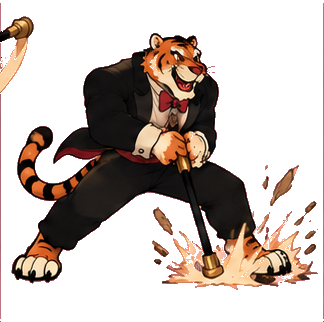
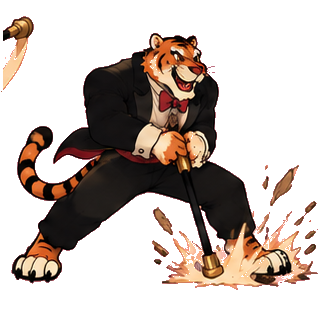
fix: clean balthazar_attack grid line remnants, add frame info to viewer
- Remove persistent grid-line strips from all 5 balthazar_attack frames
  (dark/pinkish vertical strips at cell boundaries that survived bg removal)
- Update sprite-crop viewer template: show current frame filename + index
  above the animation canvas while playing
- Regenerate both petal-panic and abyss-qwen viewers

Changed region(s): [[0.9877, 0.0, 1.0, 1.0], [0.0, 0.0932, 0.0309, 0.3106]]

diff --git a/.squid-os/sprite-gen/abyss-qwen.viewer.html b/.squid-os/sprite-gen/abyss-qwen.viewer.html
@@ -10,16 +10,17 @@
   #side h1{font-size:18px;color:#3ef0ff;letter-spacing:2px;margin:0 0 4px;text-transform:uppercase;}
   #side .sub{font-size:11px;color:#5a6a90;margin-bottom:14px;}
   .label{color:#ffe23e;font-size:13px;margin:12px 0 4px;letter-spacing:1px;}
-  .ent{font-size:14px;padding:6px 10px;border-radius:6px;cursor:pointer;color:#8fa0d0;user-select:none;}
+  .ent{font-size:14px;padding:6px 10px;border-radius:6px;cursor:pointer;color:#8fa0d0;user-select:none;display:flex;justify-content:space-between;align-items:center;}
   .ent:hover{background:rgba(62,240,255,.08);color:#cfe4ff;}
   .ent.on{background:rgba(255,226,62,.12);color:#fff;}
-  .ent .cnt{float:right;color:#5a6a90;font-size:11px;margin-left:8px;}
+  .ent .cnt{color:#5a6a90;font-size:11px;margin-left:8px;white-space:nowrap;}
   .ent.on .cnt{color:#ffe23e;}
   #main{flex:1;display:flex;flex-direction:column;align-items:center;justify-content:center;gap:20px;padding:20px;}
   #stage{position:relative;display:flex;align-items:center;justify-content:center;}
   canvas{image-rendering:pixelated;image-rendering:crisp-edges;border:2px solid #1b2540;border-radius:8px;max-width:60vmin;max-height:55vmin;}
   #name{font-size:26px;color:#3ef0ff;font-weight:bold;letter-spacing:2px;text-shadow:0 0 14px #3ef0ff;text-transform:uppercase;}
   #meta{font-size:15px;color:#8fa0d0;margin-top:-12px;letter-spacing:1px;}
+  #frameinfo{font-size:12px;color:#5a6a90;margin-top:4px;letter-spacing:.5px;font-family:'Courier New',monospace;}
   #controls{display:flex;align-items:center;gap:16px;font-size:18px;}
   button{font-family:inherit;font-size:22px;width:48px;height:48px;border-radius:8px;border:2px solid #1b2540;
           background:#0d1120;color:#cfe4ff;cursor:pointer;transition:all .1s;}
@@ -40,6 +41,7 @@
   <div id="main">
     <div id="name">&nbsp;</div>
     <div id="meta">&nbsp;</div>
+    <div id="frameinfo">&nbsp;</div>
     <div id="stage"><canvas id="cv" width="256" height="256"></canvas></div>
     <div id="controls">
       <button id="slower" title="slower">&#8722;</button>
@@ -61,6 +63,7 @@ const ctx = cv.getContext('2d');
 ctx.imageSmoothingEnabled = false;
 const nameEl = document.getElementById('name');
 const metaEl = document.getElementById('meta');
+const frameInfoEl = document.getElementById('frameinfo');
 const fpsEl = document.getElementById('fps');
 const bgInput = document.getElementById('bg');
 const bgVal = document.getElementById('bgval');
@@ -97,7 +100,7 @@ async function selectEntity(li, ei){
   document.querySelectorAll('.ent').forEach(e=>e.classList.remove('on'));
   en._el.classList.add('on');
   const imgs = await loadFrames(en.frames);
-  current = { name: en.name, frames: imgs.filter(Boolean) };
+  current = { name: en.name, frames: imgs.filter(Boolean), framePaths: en.frames };
   frameIdx = 0; acc = 0; playing = true;
   nameEl.textContent = current.name;
   metaEl.textContent = current.frames.length + ' frames';
@@ -113,8 +116,15 @@ function draw(){
   ctx.fillStyle = bg;
   ctx.fillRect(0, 0, cv.width, cv.height);
   if (current && current.frames.length){
-    const im = current.frames[frameIdx % current.frames.length];
+    const idx = frameIdx % current.frames.length;
+    const im = current.frames[idx];
     if (im) ctx.drawImage(im, 0, 0, cv.width, cv.height);
+    // Show current frame filename
+    if (current.framePaths && current.framePaths.length){
+      const fn = current.framePaths[idx] || '';
+      const basename = fn.split('/').pop();
+      frameInfoEl.textContent = (idx+1) + '/' + current.frames.length + '  —  ' + basename;
+    }
   }
 }
 

diff --git a/.squid-os/sprite-gen/petal-panic.viewer.html b/.squid-os/sprite-gen/petal-panic.viewer.html
@@ -10,16 +10,17 @@
   #side h1{font-size:18px;color:#3ef0ff;letter-spacing:2px;margin:0 0 4px;text-transform:uppercase;}
   #side .sub{font-size:11px;color:#5a6a90;margin-bottom:14px;}
   .label{color:#ffe23e;font-size:13px;margin:12px 0 4px;letter-spacing:1px;}
-  .ent{font-size:14px;padding:6px 10px;border-radius:6px;cursor:pointer;color:#8fa0d0;user-select:none;}
+  .ent{font-size:14px;padding:6px 10px;border-radius:6px;cursor:pointer;color:#8fa0d0;user-select:none;display:flex;justify-content:space-between;align-items:center;}
   .ent:hover{background:rgba(62,240,255,.08);color:#cfe4ff;}
   .ent.on{background:rgba(255,226,62,.12);color:#fff;}
-  .ent .cnt{float:right;color:#5a6a90;font-size:11px;margin-left:8px;}
+  .ent .cnt{color:#5a6a90;font-size:11px;margin-left:8px;white-space:nowrap;}
   .ent.on .cnt{color:#ffe23e;}
   #main{flex:1;display:flex;flex-direction:column;align-items:center;justify-content:center;gap:20px;padding:20px;}
   #stage{position:relative;display:flex;align-items:center;justify-content:center;}
   canvas{image-rendering:pixelated;image-rendering:crisp-edges;border:2px solid #1b2540;border-radius:8px;max-width:60vmin;max-height:55vmin;}
   #name{font-size:26px;color:#3ef0ff;font-weight:bold;letter-spacing:2px;text-shadow:0 0 14px #3ef0ff;text-transform:uppercase;}
   #meta{font-size:15px;color:#8fa0d0;margin-top:-12px;letter-spacing:1px;}
+  #frameinfo{font-size:12px;color:#5a6a90;margin-top:4px;letter-spacing:.5px;font-family:'Courier New',monospace;}
   #controls{display:flex;align-items:center;gap:16px;font-size:18px;}
   button{font-family:inherit;font-size:22px;width:48px;height:48px;border-radius:8px;border:2px solid #1b2540;
           background:#0d1120;color:#cfe4ff;cursor:pointer;transition:all .1s;}
@@ -40,6 +41,7 @@
   <div id="main">
     <div id="name">&nbsp;</div>
     <div id="meta">&nbsp;</div>
+    <div id="frameinfo">&nbsp;</div>
     <div id="stage"><canvas id="cv" width="256" height="256"></canvas></div>
     <div id="controls">
       <button id="slower" title="slower">&#8722;</button>
@@ -61,6 +63,7 @@ const ctx = cv.getContext('2d');
 ctx.imageSmoothingEnabled = false;
 const nameEl = document.getElementById('name');
 const metaEl = document.getElementById('meta');
+const frameInfoEl = document.getElementById('frameinfo');
 const fpsEl = document.getElementById('fps');
 const bgInput = document.getElementById('bg');
 const bgVal = document.getElementById('bgval');
@@ -97,7 +100,7 @@ async function selectEntity(li, ei){
   document.querySelectorAll('.ent').forEach(e=>e.classList.remove('on'));
   en._el.classList.add('on');
   const imgs = await loadFrames(en.frames);
-  current = { name: en.name, frames: imgs.filter(Boolean) };
+  current = { name: en.name, frames: imgs.filter(Boolean), framePaths: en.frames };
   frameIdx = 0; acc = 0; playing = true;
   nameEl.textContent = current.name;
   metaEl.textContent = current.frames.length + ' frames';
@@ -113,8 +116,15 @@ function draw(){
   ctx.fillStyle = bg;
   ctx.fillRect(0, 0, cv.width, cv.height);
   if (current && current.frames.length){
-    const im = current.frames[frameIdx % current.frames.length];
+    const idx = frameIdx % current.frames.length;
+    const im = current.frames[idx];
     if (im) ctx.drawImage(im, 0, 0, cv.width, cv.height);
+    // Show current frame filename
+    if (current.framePaths && current.framePaths.length){
+      const fn = current.framePaths[idx] || '';
+      const basename = fn.split('/').pop();
+      frameInfoEl.textContent = (idx+1) + '/' + current.frames.length + '  —  ' + basename;
+    }
   }
 }
 

diff --git a/.squid-os/skills/sprite-crop/scripts/crop_sprites.py b/.squid-os/skills/sprite-crop/scripts/crop_sprites.py
@@ -506,16 +506,17 @@ VIEWER_TMPL = """<!DOCTYPE html>
   #side h1{font-size:18px;color:#3ef0ff;letter-spacing:2px;margin:0 0 4px;text-transform:uppercase;}
   #side .sub{font-size:11px;color:#5a6a90;margin-bottom:14px;}
   .label{color:#ffe23e;font-size:13px;margin:12px 0 4px;letter-spacing:1px;}
-  .ent{font-size:14px;padding:6px 10px;border-radius:6px;cursor:pointer;color:#8fa0d0;user-select:none;}
+  .ent{font-size:14px;padding:6px 10px;border-radius:6px;cursor:pointer;color:#8fa0d0;user-select:none;display:flex;justify-content:space-between;align-items:center;}
   .ent:hover{background:rgba(62,240,255,.08);color:#cfe4ff;}
   .ent.on{background:rgba(255,226,62,.12);color:#fff;}
-  .ent .cnt{float:right;color:#5a6a90;font-size:11px;margin-left:8px;}
+  .ent .cnt{color:#5a6a90;font-size:11px;margin-left:8px;white-space:nowrap;}
   .ent.on .cnt{color:#ffe23e;}
   #main{flex:1;display:flex;flex-direction:column;align-items:center;justify-content:center;gap:20px;padding:20px;}
   #stage{position:relative;display:flex;align-items:center;justify-content:center;}
   canvas{image-rendering:pixelated;image-rendering:crisp-edges;border:2px solid #1b2540;border-radius:8px;max-width:60vmin;max-height:55vmin;}
   #name{font-size:26px;color:#3ef0ff;font-weight:bold;letter-spacing:2px;text-shadow:0 0 14px #3ef0ff;text-transform:uppercase;}
   #meta{font-size:15px;color:#8fa0d0;margin-top:-12px;letter-spacing:1px;}
+  #frameinfo{font-size:12px;color:#5a6a90;margin-top:4px;letter-spacing:.5px;font-family:'Courier New',monospace;}
   #controls{display:flex;align-items:center;gap:16px;font-size:18px;}
   button{font-family:inherit;font-size:22px;width:48px;height:48px;border-radius:8px;border:2px solid #1b2540;
           background:#0d1120;color:#cfe4ff;cursor:pointer;transition:all .1s;}
@@ -536,6 +537,7 @@ VIEWER_TMPL = """<!DOCTYPE html>
   <div id="main">
     <div id="name">&nbsp;</div>
     <div id="meta">&nbsp;</div>
+    <div id="frameinfo">&nbsp;</div>
     <div id="stage"><canvas id="cv" width="256" height="256"></canvas></div>
     <div id="controls">
       <button id="slower" title="slower">&#8722;</button>
@@ -557,6 +559,7 @@ const ctx = cv.getContext('2d');
 ctx.imageSmoothingEnabled = false;
 const nameEl = document.getElementById('name');
 const metaEl = document.getElementById('meta');
+const frameInfoEl = document.getElementById('frameinfo');
 const fpsEl = document.getElementById('fps');
 const bgInput = document.getElementById('bg');
 const bgVal = document.getElementById('bgval');
@@ -593,7 +596,7 @@ async function selectEntity(li, ei){
   document.querySelectorAll('.ent').forEach(e=>e.classList.remove('on'));
   en._el.classList.add('on');
   const imgs = await loadFrames(en.frames);
-  current = { name: en.name, frames: imgs.filter(Boolean) };
+  current = { name: en.name, frames: imgs.filter(Boolean), framePaths: en.frames };
   frameIdx = 0; acc = 0; playing = true;
   nameEl.textContent = current.name;
   metaEl.textContent = current.frames.length + ' frames';
@@ -609,8 +612,15 @@ function draw(){
   ctx.fillStyle = bg;
   ctx.fillRect(0, 0, cv.width, cv.height);
   if (current && current.frames.length){
-    const im = current.frames[frameIdx % current.frames.length];
+    const idx = frameIdx % current.frames.length;
+    const im = current.frames[idx];
     if (im) ctx.drawImage(im, 0, 0, cv.width, cv.height);
+    // Show current frame filename
+    if (current.framePaths && current.framePaths.length){
+      const fn = current.framePaths[idx] || '';
+      const basename = fn.split('/').pop();
+      frameInfoEl.textContent = (idx+1) + '/' + current.frames.length + '  \u2014  ' + basename;
+    }
   }
 }
 
